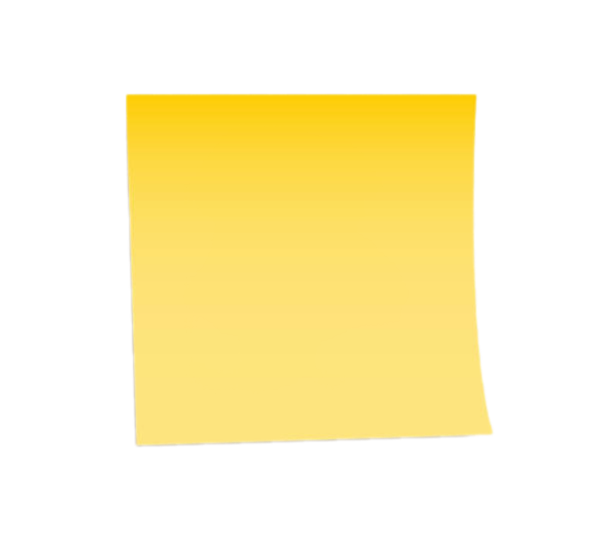
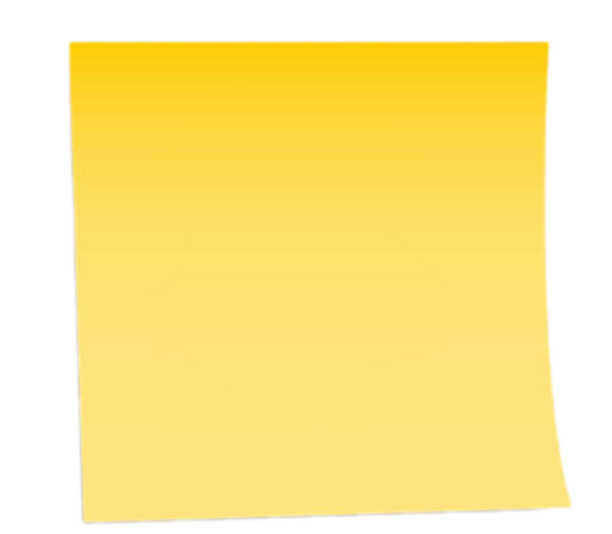
.

diff --git a/resources/js/components/Inicio.vue b/resources/js/components/Inicio.vue
@@ -7,9 +7,11 @@
   <router-link to="/" class="absolute w-[250px] rotate-[-10deg] top-[200px] right-[45%] hover:scale-[1.05] hover:z-10 duration-200 hover:rotate-[-8deg]"> <img :src="'/img/revista.jpg'" > </router-link>
   <router-link to="/" class="absolute w-[350px] rotate-[-80deg] top-0 right-[25%]  hover:scale-[1.05] hover:z-10 duration-200 hover:rotate-[-83deg]"> <img :src="'/img/ipad.png'" > </router-link>
   <router-link to="/" class="absolute w-[100px] rotate-[-15deg] bottom-[100px] right-[-1%] hover:scale-[1.05] hover:z-10 duration-200 hover:rotate-[-10deg]"> <img :src="'/img/polaroid.jpg'" > </router-link>
-  <router-link to="/" class="absolute w-[100px] rotate-[5deg] top-[100px] left-[5%] hover:scale-[1.05] hover:z-10 duration-200 hover:rotate-0"> <div class="h-[100px] w-[100px] bg-yellow-600 text-center text-black "><p>_________</p>_______<p>___________</p></div> </router-link>
+  <router-link to="/" class="absolute w-[110px] rotate-[5deg] top-[100px] left-[5%] hover:scale-[1.05] hover:z-10 duration-200 hover:rotate-0"> <!-- <div class="h-[100px] w-[100px] bg-yellow-600 text-center text-black "><p>_________</p>_______<p>___________</p></div>--> <img :src="'/img/postit.png'" alt="" class="brightness-75"></router-link> 
+  
  <img :src="'/img/boli.jpg'" class="absolute w-[100px] rotate-[-20deg] top-[100px] left-[10%] z-10">
  <img :src="'/img/clips.png'" class="absolute w-[100px] rotate-[-20deg] top-[200px] left-[5%] z-10">
+ <img :src="'/img/platano.png'" class="absolute w-[250px] bottom-[6%] left-[-7%] z-10 brightness-75">
   
 </div>
 </template>
